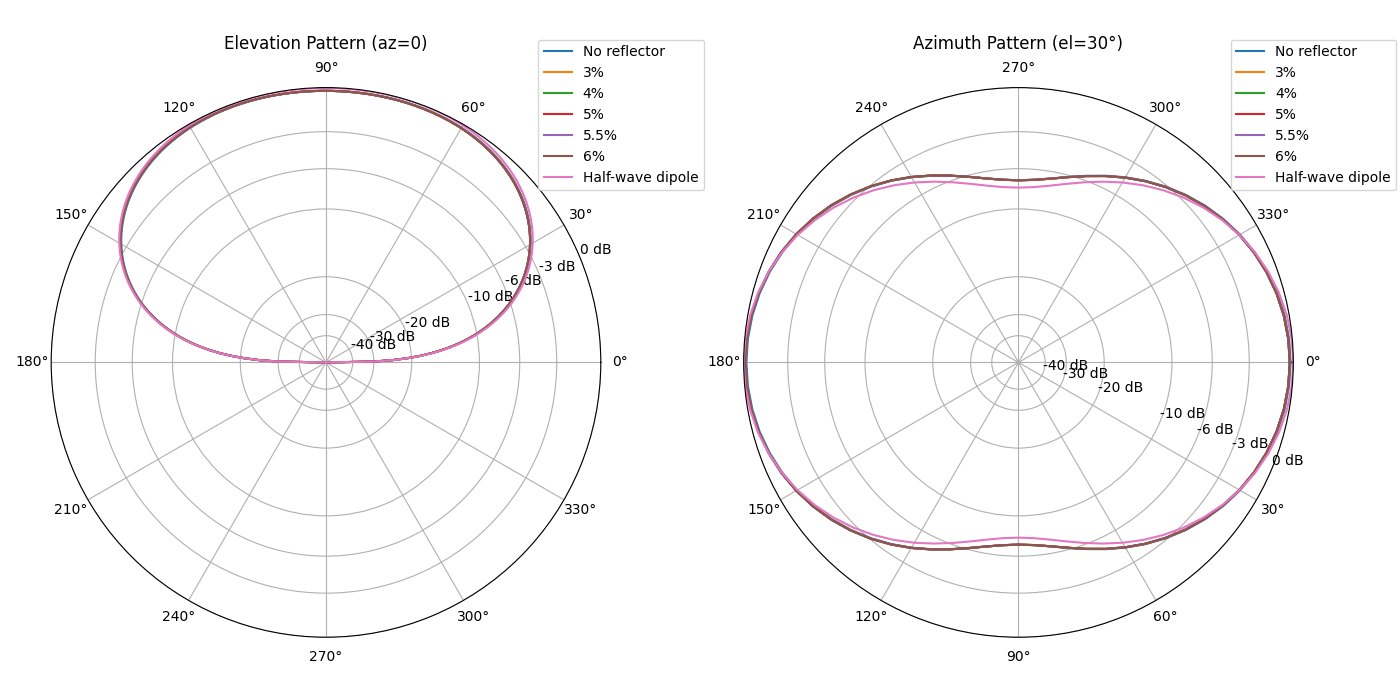
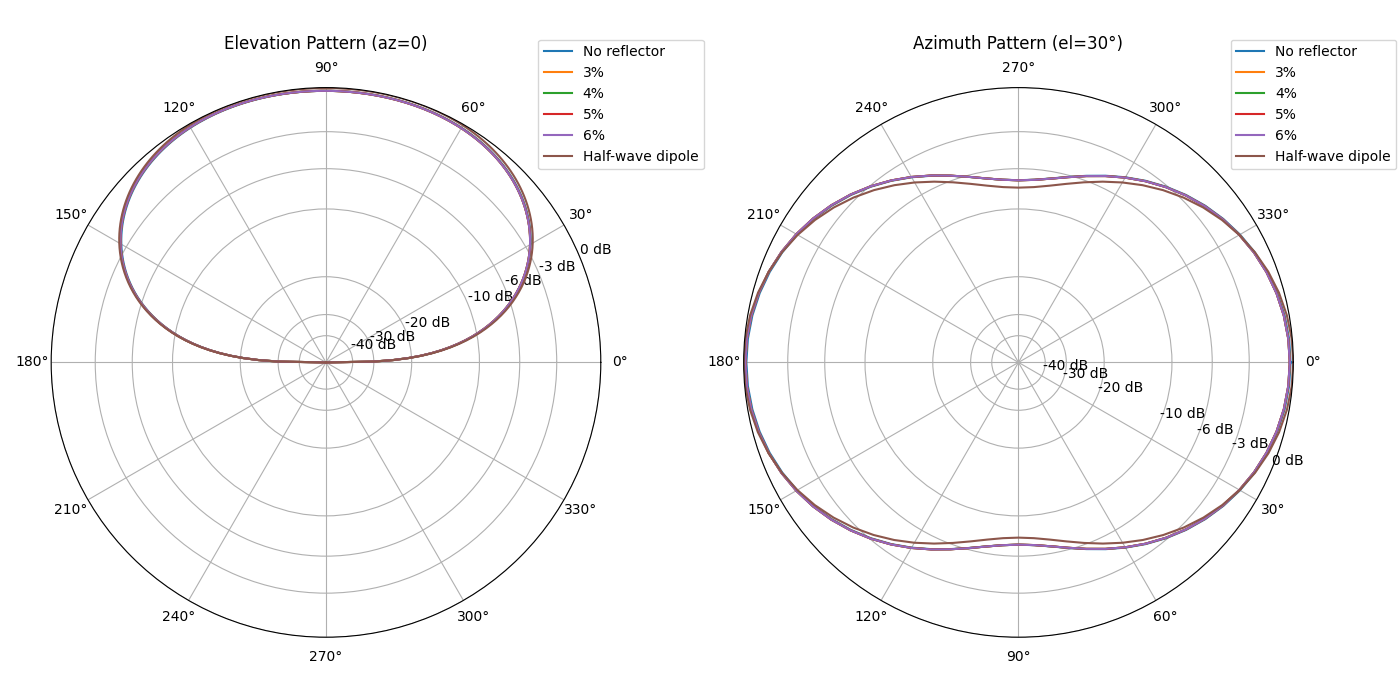
Remove 5.5% detune and add 18ft/16ft spacing studies

diff --git a/2_el_beam_88ft.py b/2_el_beam_88ft.py
@@ -77,14 +77,13 @@ def main():
     # Simulation parameters
     height_m = 20.0
     freqs_mhz = [7.1, 3.5]
-    detune_fracs = [0.03, 0.04, 0.05, 0.055, 0.06]
+    detune_fracs = [0.03, 0.04, 0.05, 0.06]
     # Define cases: (label, detune_frac), None detune_frac means no reflector
     cases = [
         ("No reflector", None),
         ("3%", 0.03),
         ("4%", 0.04),
         ("5%", 0.05),
-        ("5.5%", 0.055),
         ("6%", 0.06),
     ]
     segments = 21
@@ -349,6 +348,61 @@ def main():
         fgfb_height_rows,
         parameters=f"spacing=20'; ground={ground}; segments={segments}; radius={radius} m; el={el_fixed}°"
     )
+    # === Spacing study at 20 m height for 18ft and 16ft ===
+    for spacing_ft in [18.0, 16.0]:
+        # Impedance vs detune
+        imp_spacing: List[List[str]] = []
+        for df in detune_fracs:
+            model = build_two_element_beam_88ft(df, driven_length_ft=88.0, spacing_ft=spacing_ft, segments=segments, radius=radius)
+            R, X = sim.simulate_pattern(
+                model, freq_mhz=7.1, height_m=height_m, ground=ground,
+                el_step=45.0, az_step=360.0
+            )['impedance']
+            imp_spacing.append([f"{int(df*100)}%", f"{R:.2f}", f"{X:.2f}"])
+        report.add_table(
+            f'Feedpoint Impedance vs Detune (spacing={int(spacing_ft)} ft)',
+            ['Detune (%)', 'R (Ω)', 'X (Ω)'],
+            imp_spacing,
+            parameters=f"frequency=7.1 MHz; height={height_m} m; spacing={int(spacing_ft)} ft; ground={ground}; segments={segments}; radius={radius} m"
+        )
+        # Pattern plots vs detune
+        elev_sweep: Dict[float, List[Dict[str, float]]] = {}
+        az_sweep: Dict[float, List[Dict[str, float]]] = {}
+        for df in detune_fracs:
+            model = build_two_element_beam_88ft(df, driven_length_ft=88.0, spacing_ft=spacing_ft, segments=segments, radius=radius)
+            elev_sweep[df] = sim.simulate_pattern(
+                model, freq_mhz=7.1, height_m=height_m, ground=ground,
+                el_step=1.0, az_step=360.0
+            )['pattern']
+            az_sweep[df] = sim.simulate_azimuth_pattern(
+                model, freq_mhz=7.1, height_m=height_m, ground=ground,
+                el=el_fixed, az_step=5.0
+            )
+        labels = [f"{int(df*100)}%" for df in detune_fracs]
+        out_png = os.path.join(report.report_dir, f'detune_sweep_spacing_{int(spacing_ft)}ft.png')
+        plot_polar_patterns(
+            elev_sweep, az_sweep, detune_fracs, el_fixed,
+            out_png, args.show_gui, legend_labels=labels
+        )
+        report.add_plot(
+            f'Detune Sweep Polar Patterns (spacing={int(spacing_ft)} ft)',
+            out_png,
+            parameters=f"frequency=7.1 MHz; height={height_m} m; spacing={int(spacing_ft)} ft; ground={ground}; segments={segments}; radius={radius} m; el={el_fixed}°"
+        )
+        # Forward gain & F/B vs detune
+        fgfb_rows_sp: List[List[str]] = []
+        for df in detune_fracs:
+            model = build_two_element_beam_88ft(df, driven_length_ft=88.0, spacing_ft=spacing_ft, segments=segments, radius=radius)
+            az = sim.simulate_azimuth_pattern(model, freq_mhz=7.1, height_m=height_m, ground=ground, el=el_fixed, az_step=5.0)
+            fwd = next(p['gain'] for p in az if abs(p['az']) < 1e-6)
+            back = next(p['gain'] for p in az if abs(p['az'] - 180.0) < 1e-6)
+            fgfb_rows_sp.append([f"{int(df*100)}%", f"{fwd:.2f}", f"{(fwd-back):.2f}"])
+        report.add_table(
+            f'Forward Gain & F/B vs Detune (spacing={int(spacing_ft)} ft)',
+            ['Detune (%)', 'Fwd Gain (dB)', 'F/B (dB)'],
+            fgfb_rows_sp,
+            parameters=f"frequency=7.1 MHz; height={height_m} m; spacing={int(spacing_ft)} ft; ground={ground}; segments={segments}; radius={radius} m; el={el_fixed}°"
+        )
 
     report.save()
 

diff --git a/output/2_el_beam_88ft/2_el_beam_88ft.md b/output/2_el_beam_88ft/2_el_beam_88ft.md
@@ -10,7 +10,6 @@ Parameters: driven=88'; spacing=20'; height=20.0 m; segments=21; radius=0.001 m;
 | 3% | 69.87 | 581.49 | C=38.5 pF |
 | 4% | 88.31 | 605.32 | C=37.0 pF |
 | 5% | 113.14 | 619.09 | C=36.2 pF |
-| 5.5% | 125.83 | 621.93 | C=36.0 pF |
 | 6% | 137.81 | 622.50 | C=36.0 pF |
 
 ## Feedpoint Impedance at 3.5 MHz vs Case
@@ -23,7 +22,6 @@ Parameters: driven=88'; spacing=20'; height=20.0 m; segments=21; radius=0.001 m;
 | 3% | 23.53 | -654.73 | L=29772.2 nH |
 | 4% | 23.52 | -654.74 | L=29772.7 nH |
 | 5% | 23.51 | -654.75 | L=29773.3 nH |
-| 5.5% | 23.51 | -654.75 | L=29773.5 nH |
 | 6% | 23.50 | -654.76 | L=29773.8 nH |
 
 ## Forward Gain and F/B at 7.1 MHz
@@ -36,7 +34,6 @@ Parameters: height=20.0 m; el=30.0°; ground=average; segments=21; radius=0.001 
 | 3% | 10.83 | 3.88 |
 | 4% | 11.33 | 8.34 |
 | 5% | 11.27 | 12.47 |
-| 5.5% | 11.15 | 13.58 |
 | 6% | 11.02 | 13.65 |
 | Half-wave dipole | 7.11 | 0.00 |
 
@@ -50,7 +47,6 @@ Parameters: height=20.0 m; el=30.0°; ground=average; segments=21; radius=0.001 
 | 3% | 3.86 | -0.11 |
 | 4% | 3.86 | -0.11 |
 | 5% | 3.86 | -0.11 |
-| 5.5% | 3.86 | -0.12 |
 | 6% | 3.86 | -0.12 |
 | Half-wave dipole | 4.08 | 0.00 |
 
@@ -106,3 +102,59 @@ Parameters: spacing=20'; ground=average; segments=21; radius=0.001 m; el=30.0°
 | 10 | 6.0% | 8.43 | 6.68 | 4.13 | 0.00 |
 | 15 | 6.0% | 9.84 | 10.36 | 5.55 | 0.00 |
 | 20 | 6.0% | 11.02 | 13.65 | 7.48 | 0.00 |
+
+## Feedpoint Impedance vs Detune (spacing=18 ft)
+
+Parameters: frequency=7.1 MHz; height=20.0 m; spacing=18 ft; ground=average; segments=21; radius=0.001 m
+
+| Detune (%) | R (Ω) | X (Ω) |
+| --- | --- | --- |
+| 3% | 54.14 | 560.48 |
+| 4% | 67.98 | 587.66 |
+| 5% | 90.07 | 606.20 |
+| 6% | 114.09 | 614.46 |
+
+## Detune Sweep Polar Patterns (spacing=18 ft)
+
+Parameters: frequency=7.1 MHz; height=20.0 m; spacing=18 ft; ground=average; segments=21; radius=0.001 m; el=30.0°
+
+![Detune Sweep Polar Patterns (spacing=18 ft)](detune_sweep_spacing_18ft.png)
+
+## Forward Gain & F/B vs Detune (spacing=18 ft)
+
+Parameters: frequency=7.1 MHz; height=20.0 m; spacing=18 ft; ground=average; segments=21; radius=0.001 m; el=30.0°
+
+| Detune (%) | Fwd Gain (dB) | F/B (dB) |
+| --- | --- | --- |
+| 3% | 10.46 | 2.39 |
+| 4% | 11.30 | 7.19 |
+| 5% | 11.32 | 11.71 |
+| 6% | 11.06 | 13.30 |
+
+## Feedpoint Impedance vs Detune (spacing=16 ft)
+
+Parameters: frequency=7.1 MHz; height=20.0 m; spacing=16 ft; ground=average; segments=21; radius=0.001 m
+
+| Detune (%) | R (Ω) | X (Ω) |
+| --- | --- | --- |
+| 3% | 41.42 | 535.83 |
+| 4% | 49.94 | 565.54 |
+| 5% | 68.28 | 588.41 |
+| 6% | 90.62 | 601.55 |
+
+## Detune Sweep Polar Patterns (spacing=16 ft)
+
+Parameters: frequency=7.1 MHz; height=20.0 m; spacing=16 ft; ground=average; segments=21; radius=0.001 m; el=30.0°
+
+![Detune Sweep Polar Patterns (spacing=16 ft)](detune_sweep_spacing_16ft.png)
+
+## Forward Gain & F/B vs Detune (spacing=16 ft)
+
+Parameters: frequency=7.1 MHz; height=20.0 m; spacing=16 ft; ground=average; segments=21; radius=0.001 m; el=30.0°
+
+| Detune (%) | Fwd Gain (dB) | F/B (dB) |
+| --- | --- | --- |
+| 3% | 9.72 | 0.46 |
+| 4% | 11.18 | 5.70 |
+| 5% | 11.36 | 10.69 |
+| 6% | 11.11 | 12.86 |
